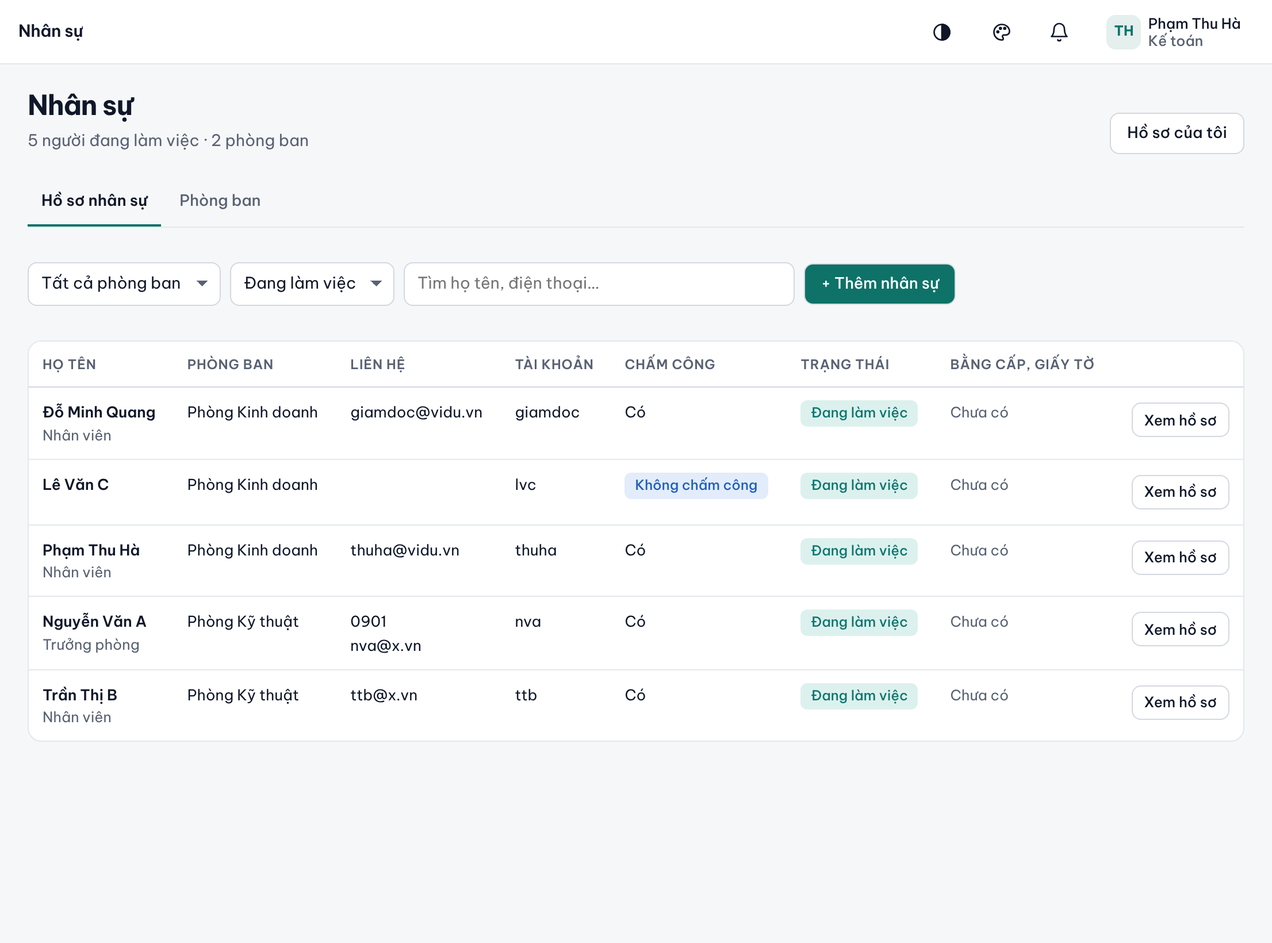
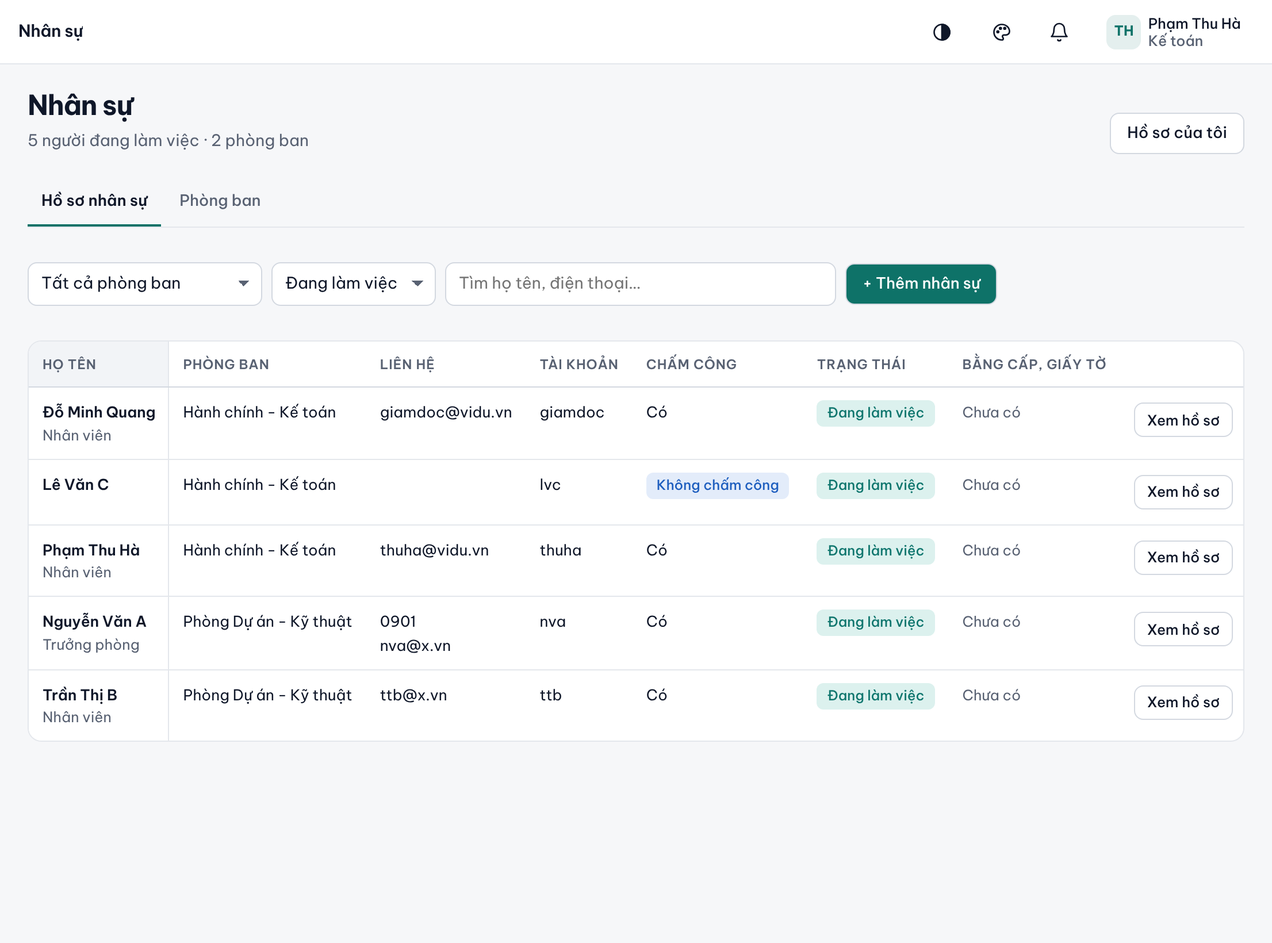
HDSD 1.10.24: sửa theo góp ý rà soát (cơ cấu, ai duyệt cho ai, ví dụ KPI, ảnh KPI 3 chiều, e-work.vn, Lương tạm tính, BGĐ rút gọn, QT)
Claude-Session: https://claude.ai/code/session_01NQcRJxdZddSXP2jCHavQqd

diff --git a/docs/hdsd-tt/content.js b/docs/hdsd-tt/content.js
@@ -29,6 +29,21 @@ exports.CHAPTERS = [
 <p class="note">Quyền Trưởng phòng đi theo phòng ban: phòng nào ghi tên người phụ trách (và <b>người cùng phụ trách</b>) là ai thì người đó quản lý phòng đó. Đổi trưởng phòng chỉ cần sửa phòng ban.</p>
 <p>Người đã nghỉ việc hoặc bị khóa tài khoản không còn hiện ở các danh sách chọn người (giao việc, phối hợp, mời họp) và không tính KPI; dữ liệu cũ vẫn giữ để tra cứu.</p>` },
 
+  { id: 'co-cau', title: 'Cơ cấu và ai duyệt cho ai (từ 01/12/2026)', roles: ALL, html: `
+<table><tr><th>Bộ phận</th><th>Người phụ trách</th><th>Thành viên</th></tr>
+<tr><td><b>Ban giám đốc</b></td><td>Đỗ Cao Trí (Giám đốc)</td><td>Đỗ Hòa: cố vấn, không chấm công, không duyệt (vai trò Nhân viên)</td></tr>
+<tr><td><b>Phòng Dự án - Kỹ thuật</b></td><td>Tám (trưởng phòng); Đoàn Thúy Quyên (người cùng phụ trách)</td><td>Khôi, Thịnh, Tính, Phạm Đoàn Trùng Dương</td></tr>
+<tr><td><b>Hành chính - Kế toán</b></td><td>Thanh (phụ trách)</td><td>Thảo. Cả hai không chấm công.</td></tr></table>
+<table><tr><th>Việc cần duyệt</th><th>Của ai</th><th>Ai duyệt</th></tr>
+<tr><td rowspan="3">Đề xuất (nghỉ, tăng ca, công tác, tạm ứng, xăng xe…)</td><td>Chuyên viên Phòng Dự án - Kỹ thuật</td><td>Tám hoặc Đoàn Thúy Quyên (ai duyệt trước cũng được)</td></tr>
+<tr><td>Thảo</td><td>Thanh</td></tr>
+<tr><td>Tám, Đoàn Thúy Quyên, Thanh</td><td>Giám đốc</td></tr>
+<tr><td>Giao việc, nghiệm thu sản phẩm</td><td>Người trong phòng</td><td>Người giao việc (trưởng phòng, người cùng phụ trách, Giám đốc)</td></tr>
+<tr><td>Chi lương</td><td>Cả công ty</td><td><b>Chỉ Giám đốc</b> duyệt chi; Kế toán lập bảng, không duyệt</td></tr>
+<tr><td>Xem bảng lương của phòng</td><td>Phòng Dự án - Kỹ thuật</td><td>Chỉ Đoàn Thúy Quyên (chỉ xem)</td></tr>
+<tr><td>Xóa dữ liệu phần Dự án</td><td>Mọi dự án</td><td>Trưởng phòng, người cùng phụ trách, Giám đốc. Nhân viên không xóa.</td></tr></table>
+<p><b>Thay đổi từ 01/12/2026</b>: dùng địa chỉ <b>https://e-work.vn</b> (bản mới); bảng lương, KPI tháng 12 tính hoàn toàn trên phần mềm mới; KPI tính 3 chiều (sản phẩm 60%, chuyên cần 20%, tương tác 20%); giao việc là giao sản phẩm.</p>` },
+
   { id: 'dang-nhap', title: 'Đăng nhập, đổi mật khẩu', roles: ALL, shot: 'dang-nhap', html: `
 <ol><li>Mở <b>https://e-work.vn</b> (địa chỉ e-work quen thuộc, nay là bản mới) trên máy tính hoặc điện thoại.</li>
 <li>Đăng nhập bằng <b>tên đăng nhập và mật khẩu e-work cũ</b> của bạn, không cần cấp lại.</li>
@@ -52,7 +67,8 @@ exports.CHAPTERS = [
 <p>Ngày nghỉ (Chủ nhật, thứ Bảy nghỉ, ngày lễ): không nhận nhiệm vụ, màn hình chỉ hiện lời chúc. Có làm thêm vào ngày nghỉ thì làm xong lập <b>phiếu xác nhận tăng ca</b> (chương <i>Đề xuất</i>).</p>
 <p>Quên nhận nhiệm vụ hoặc đi muộn có lý do: gửi đề xuất <i>Quên nhận nhiệm vụ</i> hoặc <i>Đi muộn</i>. Đề xuất được duyệt thì công tự tính lại.</p>
 <p>Từ ngày 1 đến ngày 10 mỗi tháng, trang hiện <b>Tổng kết tháng trước của bạn</b>: số ngày ở công ty, online, công tác, khác, số lần đi muộn, ngày nghỉ phép, ngày nghỉ không phép. Bấm <b>Đã xem</b> để ẩn.</p>
-<p class="note">Trong thời gian chạy song song, ngày nhận nhiệm vụ được chép sang e-work cũ mỗi 5 phút, nên không cần chấm hai nơi.</p>` },
+<p>Người được đặt <b>Không chấm công</b> (hiện là Đỗ Hòa, Thanh, Thảo) không phải nhận nhiệm vụ; lương tính theo hồ sơ.</p>
+<p class="note">Chỉ nhận nhiệm vụ trên phần mềm này (https://e-work.vn). Đến hết tháng 11/2026, dữ liệu nhận nhiệm vụ được phần mềm tự chép sang cơ sở dữ liệu e-work cũ để đối chiếu lương tháng 11; không cần chấm ở nơi khác.</p>` },
 
   { id: 'de-xuat', title: 'Gửi đề xuất', roles: ALL, shot: 'de-xuat', shots: ['tang-ca'], html: `
 <ol><li>Vào <b>Văn phòng → Đề xuất</b>, bấm <b>+ Tạo đề xuất</b>, chọn loại (xếp theo nhóm <i>Nghỉ</i>, <i>Thời gian</i>, <i>Chi phí</i>, <i>Khác</i>).</li>
@@ -103,20 +119,22 @@ exports.CHAPTERS = [
 <tr><td><b>Chuyên cần</b></td><td>20%</td><td>Nhận nhiệm vụ hằng ngày: 100 điểm, mỗi lần muộn quá 5 phút trừ 5, mỗi ngày nghỉ không phép trừ 20.</td></tr>
 <tr><td><b>Tương tác</b></td><td>20%</td><td>Số <b>ngày làm việc có cập nhật</b> trên phần mềm: nộp sản phẩm, trao đổi việc, xong phần phối hợp, cập nhật dữ liệu dự án, gửi đề xuất, lịch, thông báo, xác nhận lương, nghiệm thu, duyệt… Có cập nhật trong khoảng 3/5 số ngày đi làm là đủ 100 điểm. Mỗi ngày chỉ tính một lần: bấm nhiều trong ngày không cộng thêm. Đăng nhập, nhận nhiệm vụ không tính ở đây.</td></tr></table>
 <h3>Điểm sản phẩm</h3>
-<p>Mỗi sản phẩm (hoặc mốc) = <b>quy mô</b> (Nhỏ 1, Vừa 2, Lớn 4) × <b>tỷ lệ mốc</b> × mức độ (Bình thường 1, Quan trọng 1,5, Khẩn cấp 2) × <b>đúng hạn</b> (trễ đến 1 ngày làm việc còn 75%, đến 3 ngày còn 50%, trễ hơn 0) × <b>chất lượng</b> (Đạt tốt 100%, Đạt 85%, quá 3 ngày chưa nghiệm thu tự tính Đạt) × (1 − 20% mỗi lần bị trả lại sửa). Mốc đến hạn mà chưa nộp: 0 điểm. Người phối hợp được tính 30%. Điểm sản phẩm = 100 × tổng điểm đạt ÷ tổng hệ số.</p>
+<p>Mỗi sản phẩm (hoặc mốc) = <b>quy mô</b> (Nhỏ 1, Vừa 2, Lớn 4) × <b>tỷ lệ mốc</b> × mức độ (Bình thường 1, Quan trọng 1,5, Khẩn cấp 2) × <b>đúng hạn</b> (đúng hạn 100%; trễ 1 ngày làm việc còn 75%; trễ 2–3 ngày còn 50%; <b>trễ quá 3 ngày làm việc: 0</b>) × <b>chất lượng</b> (Đạt tốt 100%, Đạt 85%, quá 3 ngày chưa nghiệm thu tự tính Đạt) × (1 − 20% mỗi lần bị <b>trả về sửa</b> vì chưa đạt). Mốc đến hạn mà chưa nộp: 0 điểm. Người phối hợp được tính 30%. Điểm sản phẩm = 100 × tổng điểm đạt ÷ tổng hệ số.</p>
+<p class="note"><b>Ví dụ tính điểm tháng 12</b>: bạn có 2 mốc đến hạn. Mốc "Dự thảo" của báo cáo KTKT quy mô Lớn: hệ số 4 × 40% = 1,6; nộp đúng hạn, Đạt tốt: được 1,6. Một sản phẩm Nhỏ (hệ số 1): trễ 1 ngày, Đạt: được 1 × 75% × 85% = 0,64. Điểm sản phẩm = 100 × (1,6 + 0,64) ÷ (1,6 + 1) = <b>86,2</b>. Chuyên cần 95 (đi muộn 1 lần), tương tác 100. KPI = 86,2 × 60% + 95 × 20% + 100 × 20% = <b>90,7</b>, xếp loại A.</p>
 <p><b>Sản phẩm cần cơ quan phê duyệt</b> (ví dụ báo cáo KTKT): lúc giao chọn "Có", phần mềm <b>tự chia 3 mốc</b> và tự đặt hạn: <b>Dự thảo 40%</b> (hạn ở giữa thời gian), <b>Trình thẩm định 30%</b>, <b>Được phê duyệt 30%</b> (hạn của sản phẩm). Mỗi mốc tính vào tháng của mốc, nên việc làm 2 tháng thì tháng nào cũng có điểm. Cơ quan ngoài duyệt chậm thì xin gia hạn mốc trước hạn, không bị trừ.</p>
-<p><b>Ngày nộp</b> là ngày bấm Nộp sản phẩm, không ghi lùi được. Cả tháng không có sản phẩm hay mốc nào (kể cả sản phẩm dài đang làm) thì phần sản phẩm 0 điểm; người đang làm sản phẩm dài thì tháng đó tính theo chuyên cần và tương tác.</p>
+<p><b>Ngày nộp</b> là ngày bấm Nộp sản phẩm, không ghi lùi được. Cả tháng không có sản phẩm, mốc nào đến hạn hoặc được nộp, và cũng không có sản phẩm dài nào đang làm, thì phần sản phẩm 0 điểm. Người đang làm sản phẩm dài (hạn sau tháng này) thì không bị 0: tháng đó tính theo chuyên cần và tương tác.</p>
 <p>Xếp loại: A từ 90, B từ 75, C từ 60, dưới 60 là D. <b>Thưởng KPI</b>: cả công ty xếp hạng chung, <b>hạng 1 và hạng 2</b> được thưởng. Máy tự chốt lúc 0 giờ ngày 1 tháng sau. Điểm, xếp loại công khai; tiền thưởng của người khác không hiện. Điểm tháng đang chạy (<b>KPI tạm tính</b>) hiện ở trang Nhận nhiệm vụ và đầu trang Công việc.</p>
 <p class="note">Cách tính ba chiều áp dụng từ KPI tháng 12/2026 (tháng 11 tính như cũ: công việc 70%, chuyên cần 30%). Sau 3 tháng Công ty đánh giá lại.</p>` },
 
   { id: 'phieu-luong', title: 'Phiếu lương và xác nhận lương', roles: ALL, shot: 'phieu-luong', html: `
-<p>Trong tháng, mục <b>Lương</b> hiện <b>Phiếu lương tạm tính</b> của bạn (tính theo nhận nhiệm vụ, đề xuất, tăng ca đã duyệt tới hôm nay; chưa có thưởng KPI). Phiếu tạm tính chỉ để theo dõi, không xác nhận; thấy thiếu ngày công thì lập đề xuất ngay để kịp sửa.</p>
+<p>Trong tháng, mục <b>Lương</b> hiện <b>Phiếu lương tạm tính</b> của bạn (tính theo nhận nhiệm vụ, đề xuất, tăng ca đã duyệt tới hôm nay; chưa có thưởng KPI). Trang ghi rõ <b>Lương tạm tính</b>; phiếu tạm tính chỉ để theo dõi, không xác nhận; thấy thiếu ngày công thì lập đề xuất ngay để kịp sửa.</p>
 <ol><li>Bảng lương tháng tự chốt lúc 0 giờ ngày 1 tháng sau. Vào <b>Văn phòng → Lương</b>, chọn tháng để xem phiếu lương của mình: ngày công, lương thời gian, phụ cấp, tăng ca, công tác phí, thưởng KPI, bảo hiểm, thuế thu nhập cá nhân, tạm ứng, thực nhận.</li>
 <li>Từ ngày 1 đến hết ngày 3 tháng sau: bấm <b>Đồng ý, xác nhận lương</b>, hoặc ghi rõ ý kiến rồi bấm <b>Gửi kiến nghị</b>. Quá hạn coi như đồng ý.</li>
 <li>Kế toán trả lời kiến nghị ngay trên phiếu lương. Bấm <b>In, lưu PDF phiếu lương</b> để lưu.</li></ol>
-<p class="note">Bạn thấy phiếu lương của chính mình; người được Giám đốc giao (hiện là người cùng phụ trách phòng) xem được bảng lương của phòng để cân đối. Thông tin tài khoản ngân hàng, số CCCD chỉ Kế toán và Ban giám đốc thấy để chi lương.</p>` },
+<p>Người <b>Không chấm công</b> lĩnh nguyên lương chính, không phải tự xác nhận lương.</p>
+<p class="note">Bạn thấy phiếu lương của chính mình. Bảng lương của phòng: theo quyết định của Giám đốc, <b>chỉ Đoàn Thúy Quyên</b> (người cùng phụ trách Phòng Dự án - Kỹ thuật) được xem, chỉ xem; trưởng phòng không xem. Thông tin tài khoản ngân hàng, số CCCD chỉ Kế toán và Ban giám đốc thấy để chi lương.</p>` },
 
-  { id: 'lich-thong-bao', title: 'Lịch công tác, thông báo, thông tin dự án', roles: ALL, html: `
+  { id: 'lich-thong-bao', title: 'Lịch công tác, thông báo', roles: ALL, html: `
 <ul><li><b>Lịch công tác</b>: xem theo tuần, chọn <i>Chỉ lịch của tôi</i>; bấm <b>Thêm</b> để tải tệp lịch vào điện thoại, Outlook, Google Calendar; <b>Xuất → Lịch tuần (PDF/Excel)</b> để in.</li>
 <li><b>Thông báo nội bộ</b>: thông báo mới có chấm đỏ trên chuông; mở là được ghi nhận đã xem.</li>
 <li><b>Hướng dẫn sử dụng</b>: menu Tiện ích → Hướng dẫn sử dụng, có tài liệu này.</li></ul>` },
@@ -142,6 +160,7 @@ exports.CHAPTERS = [
 <ol><li>Chọn dự án ở ô chọn dự án phía trên (hoặc mở dự án từ <b>Quản lý dự án</b>), vào mục cần cập nhật.</li>
 <li>Bấm <b>+ Thêm</b> (ví dụ <i>+ Thêm hồ sơ</i>, <i>+ Thêm gói thầu</i>, <i>+ Thêm nhật ký</i>) hoặc <b>Sửa</b> trên dòng cần sửa; điền các ô có dấu *, đính kèm tệp (PDF, ảnh, Excel); bấm <b>Lưu</b>.</li>
 <li>Hồ sơ có quy trình duyệt (kế hoạch tiến độ, đợt nghiệm thu khối lượng, phụ lục hợp đồng, hồ sơ thanh toán, biên bản nghiệm thu) lưu ở trạng thái <b>Soạn thảo</b> (<i>Lưu nháp</i>); đủ hồ sơ thì bấm <b>Chuyển duyệt</b>. Bị trả lại thì xem ý kiến ở thẻ <i>Tôi đang soạn</i>, sửa rồi trình lại. Chỉ hồ sơ <b>đã duyệt</b> mới được tính vào số liệu.</li>
+<li><b>Tiến độ % của hợp đồng, gói thầu</b> (mục Quản lý tiến độ) là số liệu của dự án, vẫn cập nhật như trước. Khác với <b>công việc</b> của mỗi người: công việc không báo %, chỉ nộp sản phẩm.</li>
 <li>Kế hoạch tiến độ, bảng khối lượng, khối lượng nghiệm thu nhập được từ tệp Excel theo mẫu (nút <i>Nhập Excel</i>, có tệp mẫu để tải).</li></ol>
 <h3>Quyền xóa và lịch sử</h3>
 <table><tr><th>Vai trò</th><th>Thêm, sửa</th><th>Xóa</th></tr>
@@ -167,32 +186,32 @@ exports.CHAPTERS = [
   { id: 'tp-duyet', title: 'Duyệt đề xuất', roles: ['tp', 'gd'], shot: 'duyet', html: `
 <ol><li>Vào <b>Đề xuất</b>, thẻ <b>Chờ tôi duyệt</b> (số trong ngoặc là số đề xuất đang chờ).</li>
 <li>Mở đề xuất, xem chứng từ đính kèm, bấm <b>Duyệt</b> hoặc <b>Không duyệt</b> (ghi lý do).</li></ol>
-<p><b>Ai duyệt cho ai:</b> trưởng bộ phận (trưởng phòng và người cùng phụ trách) duyệt đề xuất của chuyên viên trong phòng, ai duyệt trước cũng được. Giám đốc duyệt đề xuất của trưởng bộ phận. Không ai tự duyệt đề xuất của mình; đề xuất của Giám đốc do Quản trị duyệt.</p>` },
+<p><b>Ai duyệt cho ai:</b> trưởng bộ phận (trưởng phòng và người cùng phụ trách) duyệt đề xuất của chuyên viên trong phòng, ai duyệt trước cũng được. Giám đốc duyệt đề xuất của trưởng bộ phận. Không ai tự duyệt đề xuất của mình (phần mềm chặn); đề xuất của Giám đốc được duyệt bằng tài khoản Quản trị (admin).</p>` },
 
-  { id: 'tp-kpi', title: 'Hôm nay ai ở đâu, Bảng công của phòng, KPI', roles: ['tp', 'gd'], shot: 'hom-nay', html: `
-<ol><li>Vào <b>Bảng công</b>, thẻ <b>Hôm nay ai ở đâu</b>: số người ở công ty, online, công tác, khác, có phiếu nghỉ, chưa nhận nhiệm vụ, đi muộn; từng người làm ở đâu, việc làm hôm nay, kết quả cuối ngày. Chọn ngày khác để xem lại.</li>
-<li>Thẻ <b>Tổng hợp tháng</b>: mỗi người số ngày công, ở công ty, online, công tác, khác, đi muộn, nghỉ phép, tăng ca, nghỉ không phép; <b>Xuất Excel</b> khi cần. Trưởng phòng thấy phòng mình, Ban giám đốc và Kế toán thấy toàn công ty.</li>
-<li><b>Lương</b>: người được giao xem bảng lương của phòng (hiện là người cùng phụ trách; Kế toán đổi ở <b>Lương → Thiết lập lương → Ai xem bảng lương của phòng</b>) chỉ xem, không sửa, không duyệt chi, để cân đối lương.</li>
+  { id: 'tp-kpi', title: 'Hôm nay ai ở đâu, Bảng công, KPI', roles: ['tp', 'gd'], shot: 'hom-nay', html: `
+<ol><li>Vào <b>Bảng công</b>, thẻ <b>Hôm nay ai ở đâu</b>: số người ở công ty, online, công tác, khác, có phiếu nghỉ, chưa nhận nhiệm vụ, đi muộn; từng người làm ở đâu. Chọn ngày khác để xem lại.</li>
+<li>Thẻ <b>Tổng hợp tháng</b>: mỗi người số ngày công, ở công ty, online, công tác, khác, đi muộn, nghỉ phép, tăng ca, nghỉ không phép; <b>Xuất Excel</b> khi cần. Trưởng phòng thấy phòng mình; Giám đốc và Kế toán thấy toàn công ty.</li>
+<li><b>Lương</b>: theo quyết định của Giám đốc, chỉ Đoàn Thúy Quyên (người cùng phụ trách) xem bảng lương của Phòng Dự án - Kỹ thuật, chỉ xem, không sửa, không duyệt chi. Trưởng phòng không xem.</li>
 <li><b>KPI</b> máy tự tính và tự chốt lúc 0 giờ ngày 1 tháng sau, không ai phải chấm hay bấm chốt. Cần sửa sai sót thì Ban giám đốc bấm <b>Mở chốt</b>, sửa, bấm <b>Chốt KPI tháng</b>.</li></ol>
 <p>Muốn KPI phản ánh đúng: giao việc ghi rõ sản phẩm và hạn bàn giao, nghiệm thu đúng lúc, duyệt gia hạn và xác nhận việc tự tạo kịp thời.</p>` },
 
   // ---------------- kế toán
-  { id: 'kt-nhan-su', title: 'Hồ sơ nhân sự, hồ sơ lương', roles: ['kt', 'gd'], shot: 'nhan-su', html: `
+  { id: 'kt-nhan-su', title: 'Hồ sơ nhân sự, hồ sơ lương', roles: ['kt'], shot: 'nhan-su', html: `
 <ol><li><b>Văn phòng → Nhân sự</b>, bấm tên một người để mở trang hồ sơ: thẻ <b>Thông tin chung</b> (cá nhân, phòng ban, chức vụ, ngày vào làm, ngân hàng, CCCD, người phụ thuộc), <b>Bằng cấp, chứng chỉ</b>, <b>Hợp đồng lao động</b>, <b>Quá trình công tác</b>, <b>Khen thưởng</b>, <b>Kỷ luật</b>, <b>Giấy tờ</b>, <b>Tất cả tệp</b>. Mỗi mục đính kèm được ảnh chụp hoặc bản PDF, bấm <b>Xem</b> để mở ngay. Mỗi người xem hồ sơ của mình ở <b>Hồ sơ của tôi</b>.</li>
 <li>Ô <b>Chấm công</b>: chọn <i>Không chấm công</i> cho người không cần nhận nhiệm vụ. Người đó hưởng nguyên lương chính, không cần tự xác nhận lương.</li>
 <li>Người sắp nghỉ việc: chỉ cần ghi <b>Ngày nghỉ việc</b> (giữ trạng thái Đang làm việc). Đến hết ngày đó, người này vẫn chấm công và hưởng lương bình thường. Từ hôm sau, phần mềm <b>tự khóa tài khoản</b> và bỏ họ khỏi các danh sách chọn người và KPI. Bảng công, bảng lương tháng cuối vẫn tính đủ; hồ sơ vẫn giữ để tra cứu.</li>
 <li><b>Lương → Hồ sơ lương</b>: lương cơ bản, lương đóng bảo hiểm, các khoản phụ cấp, số người phụ thuộc, cách tính thuế, đóng hay không đóng bảo hiểm, mức công tác phí riêng (để trống thì dùng mức chung, 0 là không hưởng; đã lấy sẵn từ e-work).</li></ol>
 <p class="note">Thông tin CCCD, ngân hàng là dữ liệu cá nhân (Nghị định 13/2023): chỉ dùng để chi lương, không chụp màn hình gửi ra ngoài.</p>` },
 
-  { id: 'kt-bang-cong', title: 'Bảng công, ngày nghỉ lễ', roles: ['kt', 'gd'], html: `
+  { id: 'kt-bang-cong', title: 'Bảng công, ngày nghỉ lễ', roles: ['kt'], html: `
 <ol><li><b>Bảng công</b>, thẻ <b>Tổng hợp tháng</b>: chọn tháng, xem từng người (ngày công, ở công ty, online, công tác, khác, đi muộn, nghỉ phép, tăng ca, nghỉ không phép); <b>Xuất Excel</b>. Bấm tên để xem chi tiết từng ngày (thẻ <b>Chi tiết nhận nhiệm vụ</b>).</li>
 <li><b>+ Bổ sung nhận nhiệm vụ</b> hoặc <b>Điều chỉnh</b> khi có sai sót (ô giờ để trống thì giữ giờ cũ; phần mềm ghi lại người sửa, lý do).</li>
 <li>Thẻ <b>Thiết lập</b>: chọn năm, bấm <b>Điền ngày lễ theo luật</b> cho năm mới; thêm ngày nghỉ bù, ngày làm bù theo thông báo của Chính phủ.</li></ol>` },
 
-  { id: 'kt-luong', title: 'Bảng lương tự tính, tự chốt', roles: ['kt', 'gd'], shot: 'bang-luong', html: `
+  { id: 'kt-luong', title: 'Bảng lương tự tính, tự chốt', roles: ['kt'], shot: 'bang-luong', html: `
 <ol><li>Vào <b>Lương</b>, chọn tháng. Bảng lương tự tính từ bảng công, đề xuất đã được trưởng bộ phận duyệt, KPI đã chốt và hồ sơ lương. Kế toán không phải nhập lại.</li>
 <li>Từng người: <b>Thưởng, khấu trừ khác</b> để thêm khoản ngoài; mục <b>Đề xuất tạm ứng, xăng xe trong tháng</b> chọn <i>Đưa vào lương</i> hoặc không.</li>
-<li><b>Bảng lương tự chốt lúc 0 giờ ngày 1 tháng sau</b> (ngay sau khi KPI tự chốt), không ai phải bấm. Có khoản phát sinh thì nhập trước ngày đó; nhập muộn thì <b>Mở chốt</b>, nhập, rồi <b>Chốt bảng lương</b> (đã mở chốt thì phần mềm không tự chốt lại). Nhân viên thấy phiếu lương và xác nhận từ ngày 1 đến ngày 3 tháng sau. Bật/tắt và chọn ngày tự chốt ở <b>Lương → Thiết lập</b>.</li>
+<li><b>Bảng lương tự chốt lúc 0 giờ ngày 1 tháng sau</b> (ngay sau khi KPI tự chốt), không ai phải bấm. Có khoản phát sinh thì nhập trước ngày đó; nhập muộn thì <b>Mở chốt</b>, nhập, rồi <b>Chốt bảng lương</b> (đã mở chốt thì phần mềm không tự chốt lại). Trong tháng, trang ghi <b>Lương tạm tính</b> và chỉ có nút <b>Chốt sớm…</b> (không dùng, trừ khi Giám đốc yêu cầu). Nhân viên thấy phiếu lương và xác nhận từ ngày 1 đến ngày 3 tháng sau. Quy định của Công ty: tự chốt <b>0 giờ ngày 1</b>, không đổi.</li>
 <li>Kiến nghị: bấm <b>Trả lời kiến nghị</b>. Cần sửa số liệu thì <b>Mở chốt</b>, sửa, chốt lại.</li></ol>
 <p><b>Quy tắc tính (theo quy định hiện hành):</b></p>
 <ul><li>Bảo hiểm người lao động đóng: BHXH 8%, BHYT 1,5%, BHTN 1%. Trần BHXH, BHYT = 20 lần lương cơ sở (2.530.000 đ từ 01/7/2026); trần BHTN = 20 lần lương tối thiểu vùng (vùng I 5.310.000 đ từ 01/01/2026, Nghị định 293/2025).</li>
@@ -205,10 +224,16 @@ exports.CHAPTERS = [
 <ol><li>Sau hạn xác nhận và đã trả lời hết kiến nghị, <b>chỉ Giám đốc</b> bấm <b>Duyệt chi lương</b> (Kế toán lập, Giám đốc duyệt: tách người lập với người duyệt). Còn kiến nghị chờ xử lý thì phần mềm chưa cho duyệt.</li>
 <li>Bấm <b>Xuất → Bảng lương kế toán (Excel/PDF)</b>: đủ các cột theo quy định, có chữ ký Người lập biểu, Kế toán trưởng, Giám đốc và cột ký nhận. Dùng để lưu chứng từ.</li>
 <li><b>Xuất → Danh sách chuyển khoản ngân hàng</b>: tệp Excel đúng mẫu <i>Danh sách giao dịch</i> của MB Bank (STT, số tài khoản, tên người thụ hưởng, ngân hàng, số tiền, nội dung). Tải lên Internet Banking doanh nghiệp để chi lương.</li>
-<li>Đã duyệt chi thì không mở chốt được nữa. Cần sửa thì bấm <b>Hủy duyệt chi</b> trước.</li></ol>
+<li>Đã duyệt chi thì không mở chốt được nữa. Cần sửa thì Giám đốc bấm <b>Hủy duyệt chi</b> trước (chỉ người có quyền duyệt chi, hiện là Giám đốc).</li></ol>
 <p>Nội dung chuyển khoản, tài khoản trích nợ đặt trong <b>Lương → Thiết lập</b> (mặc định "TRI THUC THANH TOAN LUONG T{tháng}.{năm}").</p>` },
 
   // ---------------- ban giám đốc
+  { id: 'gd-nhan-su-luong', title: 'Nhân sự, bảng công, bảng lương: xem và duyệt chi', roles: ['gd'], html: `
+<p>Kế toán nhập hồ sơ nhân sự, rà bảng công và bảng lương (xem HDSD Kế toán). Giám đốc chỉ cần:</p>
+<ul><li><b>Nhân sự</b>, <b>Bảng công → Tổng hợp tháng</b>: xem toàn công ty, xuất Excel khi cần báo cáo.</li>
+<li><b>Lương</b>: trong tháng trang ghi <b>Lương tạm tính</b>; bảng tự chốt 0 giờ ngày 1. Sau hạn xác nhận (ngày 3) và đã trả lời hết kiến nghị, bấm <b>Duyệt chi lương</b>; cần sửa sau khi đã duyệt thì <b>Hủy duyệt chi</b> trước.</li>
+<li>Duyệt đề xuất của Tám, Đoàn Thúy Quyên, Thanh ở <b>Đề xuất → Chờ tôi duyệt</b>.</li></ul>` },
+
   { id: 'gd-dieu-hanh', title: 'Điều hành toàn công ty', roles: ['gd'], html: `
 <ul><li><b>Bảng công → Hôm nay ai ở đâu</b>: xem nhanh trên điện thoại ai ở công ty, online, công tác, ai chưa nhận nhiệm vụ.</li>
 <li>Trang Nhận nhiệm vụ hiện thêm mục <b>Việc của phòng, người bạn giao</b>: số việc quá hạn, việc tự tạo chờ xác nhận, sản phẩm chờ nghiệm thu. Bấm để mở ngay danh sách.</li>
@@ -220,13 +245,15 @@ exports.CHAPTERS = [
 
   // ---------------- quản trị
   { id: 'qt-tai-khoan', title: 'Tài khoản, vai trò khi nhân sự thay đổi', roles: ['qt'], shot: 'qt-nguoi-dung', html: `
-<ol><li><b>Quản trị hệ thống → Người dùng</b>: thêm tài khoản, chọn vai trò (Nhân viên, Trưởng phòng, Kế toán, Ban giám đốc), đặt mật khẩu ban đầu; người dùng phải đổi khi đăng nhập lần đầu.</li>
+<ol><li><b>Quản trị hệ thống → Người dùng</b>: thêm tài khoản, chọn vai trò (Nhân viên, Trưởng phòng, Kế toán, Ban giám đốc), đặt mật khẩu ban đầu; <b>tài khoản mới</b> phải đổi mật khẩu khi đăng nhập lần đầu (tài khoản chuyển từ e-work giữ mật khẩu cũ).</li>
 <li><b>Nhân sự thay đổi</b>: sửa tài khoản, đổi vai trò. Ví dụ nhân viên lên Trưởng phòng: đổi vai trò sang Trưởng phòng và ghi người phụ trách ở <b>Nhân sự → Phòng ban</b> (Sửa phòng ban). Phòng có hai người cùng quản lý thì chọn thêm <b>Người cùng phụ trách</b>.</li>
 <li>Người nghỉ việc: Kế toán ghi Ngày nghỉ việc trong hồ sơ, phần mềm tự khóa tài khoản từ hôm sau (không xóa, giữ lịch sử). Cần khóa ngay thì bấm Khóa ở đây.</li>
+<li>Vai trò hiện dùng: <b>Nhân viên</b> (g-nv, gồm cả Đỗ Hòa: cố vấn, đặt Không chấm công), <b>Trưởng phòng</b> (g-tp), <b>Kế toán</b> (g-ketoan), <b>Ban giám đốc</b> (g-bgd, chỉ Giám đốc), <b>Quản trị</b> (chỉ tài khoản admin, có xác thực 2 lớp). Phòng ban và người phụ trách: chương <i>Cơ cấu và ai duyệt cho ai</i>.</li>
 <li><b>Nhóm, phân quyền</b>: quyền từng phân hệ (không, xem, sửa), ô <i>Duyệt hồ sơ</i> cho Đề xuất và Lương (duyệt chi), ô <b>Không được xóa</b> (được thêm, sửa nhưng không xóa; nhóm Nhân viên đang đặt cho mọi mục phần Dự án). Chỉ sửa khi Công ty đổi quy chế.</li></ol>
 <p class="note">Quyền <i>xem</i> một phân hệ Văn phòng (Nhân sự, Bảng công, Đề xuất, KPI, Lương) nghĩa là xem dữ liệu của mọi người. Không cấp cho vai trò Nhân viên.</p>` },
 
   { id: 'qt-thiet-lap', title: 'Thiết lập hệ thống', roles: ['qt'], html: `
+<p><b>Công ty đang dùng</b>: Nhận nhiệm vụ (không chọn việc, không ghi kết quả cuối ngày), quản lý theo kết quả sản phẩm từ 12/2026, không theo dõi tiến độ %, KPI tự động 60/20/20, tự chốt KPI và lương 0 giờ ngày 1. Không đổi khi chưa có quyết định của Giám đốc.</p>
 <ul><li><b>Bảng công → Thiết lập</b>: giờ làm, ca sáng chiều, thứ Bảy, số ngày phép năm, có cộng phép theo thâm niên hay không; ô <i>Nhận nhiệm vụ</i> (bật: mỗi ngày bấm một lần, tự chọn nơi làm, không định vị), tên hiển thị của nút, ô có phần chọn việc làm hôm nay và kết quả cuối ngày hay không (Công ty đang tắt vì quản lý theo kết quả).</li>
 <li><b>KPI → Thiết lập</b>: mục <b>Quản lý theo kết quả sản phẩm</b> (áp dụng từ tháng, hệ số Đạt tốt, Đạt, có theo dõi tiến độ % hay không), công khai điểm KPI, cách tính (tự động hoàn toàn hoặc có chấm tay), tỷ trọng, xếp hạng chung toàn công ty, số người đứng đầu được thưởng, hệ số mức độ, trễ hạn, chất lượng, trừ gia hạn, mở lại, hệ số phối hợp, xếp loại, thưởng xếp hạng, số ngày nhắc trước hạn, tự chốt KPI (bật/tắt, ngày tự chốt).</li>
 <li><b>Lương → Thiết lập</b>: lương cơ sở, lương tối thiểu vùng, tỷ lệ bảo hiểm, giảm trừ, biểu thuế, tỷ lệ tăng ca, số giờ tăng ca tối đa một ngày (bình thường, gấp), tính tăng ca theo tháng duyệt phiếu hay theo ngày tăng ca, đơn giá tăng ca tính trên lương chính + phụ cấp hay chỉ lương chính, thưởng của tháng còn làm trên e-work (lấy theo bảng lương e-work hay theo KPI trên phần mềm), công tác phí, tạm ứng và xăng xe mặc định, tài khoản trích nợ, nội dung chuyển khoản, hạn xác nhận lương.</li>
@@ -236,6 +263,6 @@ exports.CHAPTERS = [
 
   { id: 'qt-ework', title: 'Chuyển dữ liệu và chạy song song e-work cũ', roles: ['qt'], html: `
 <ul><li>Dữ liệu e-work (nhân sự, chấm công, đề xuất, lịch họp, thông báo, hồ sơ lương, dự án, công việc) đã chuyển sang; bảng cũ lưu tại <b>Dữ liệu e-work cũ</b> để tra cứu.</li>
-<li>Trong thời gian chạy song song, ngày nhận nhiệm vụ được chép sang e-work cũ mỗi 5 phút: thêm dòng mới; dòng do phần mềm mới chép mà sau đó sửa (điều chỉnh, giải trình được duyệt) thì cập nhật đúng dòng đó; không xóa. Phần cập nhật cần quyền UPDATE trên bảng ChamCongs của e-work.</li>
-<li>Đối chiếu lương: chạy lệnh <code>--doi-chieu-luong 2026-10</code> trên máy chủ để so bảng lương e-work với bản mới, ra tệp chênh lệch từng người.</li></ul>` },
+<li>Đến hết tháng 11/2026, ngày nhận nhiệm vụ được chép sang cơ sở dữ liệu e-work cũ mỗi 5 phút: thêm dòng mới; dòng do phần mềm mới chép mà sau đó sửa (điều chỉnh, giải trình được duyệt) thì cập nhật đúng dòng đó; không xóa. Phần cập nhật cần quyền UPDATE trên bảng ChamCongs của e-work.</li>
+<li>Đối chiếu lương tháng 11 với e-work cũ: bên kỹ thuật chạy trên máy chủ ngày 01/12 (phụ lục kỹ thuật: lệnh <code>--doi-chieu-luong 2026-11</code>).</li></ul>` },
 ];

diff --git a/docs/hdsd-tt/build.js b/docs/hdsd-tt/build.js
@@ -6,7 +6,7 @@ const { ROLES, CHAPTERS } = require('./content');
 const OUT = process.argv[2] || path.join(__dirname, 'out'); fs.mkdirSync(OUT, { recursive: true });
 const SHOTS = path.join(__dirname, 'shots'), VER = '1.10.24', DATE = '26/11/2026';
 const CAP = { 'dang-nhap': 'Trang đăng nhập', 'du-an': 'Quản lý dự án: thông tin dự án, các thẻ Công việc, Hồ sơ pháp lý, Tình trạng thực hiện', 'du-an-sua': 'Sửa thông tin dự án: cuối biểu mẫu có mục Lịch sử thay đổi (ai, lúc nào, sửa gì)', 'diem-danh': 'Trang Nhận nhiệm vụ sau khi nhận: nơi làm, nhắc việc, KPI tạm tính, phép còn lại',
-  'de-xuat': 'Trang Đề xuất', 'cong-viec': 'Công việc: ba thẻ Việc của tôi, Được giao, Tôi giao; cột Sản phẩm bàn giao; x/y sản phẩm đã nghiệm thu', 'kpi': 'KPI tháng: Cách tính, nút Xuất',
+  'de-xuat': 'Trang Đề xuất', 'cong-viec': 'Công việc: ba thẻ Việc của tôi, Được giao, Tôi giao; cột Sản phẩm bàn giao; x/y sản phẩm đã nghiệm thu', 'kpi': 'KPI tháng theo 3 chiều: Sản phẩm, Tương tác, Chuyên cần; Cách tính, nút Xuất',
   'phieu-luong': 'Phiếu lương, xác nhận hoặc gửi kiến nghị', 'giao-viec': 'Thẻ Tôi giao: sản phẩm chờ nghiệm thu lên đầu, xin gia hạn', 'chi-tiet-viec': 'Chi tiết việc: sản phẩm bàn giao, tiêu chí đạt, sản phẩm đã nộp, người phối hợp, nhật ký', 'nop-san-pham': 'Nộp sản phẩm: đính kèm tệp hoặc dán đường dẫn, ghi chú nơi kiểm tra', 'nghiem-thu': 'Nghiệm thu: Đạt tốt, Đạt, hoặc Chưa đạt (trả lại sửa, ghi rõ cần sửa gì)', 'tang-ca': 'Phiếu xác nhận tăng ca: chọn công việc làm thêm giờ', 'nhan-nhiem-vu': 'Nhận nhiệm vụ: chọn nơi làm, bấm một lần mỗi sáng', 'hom-nay': 'Bảng công: Hôm nay ai ở đâu', 'duyet': 'Đề xuất chờ tôi duyệt',
   'nhan-su': 'Hồ sơ nhân sự', 'bang-luong': 'Bảng lương tháng: chốt, duyệt chi, nút Xuất', 'duyet-chi': 'Bảng lương đã duyệt chi: xuất danh sách chuyển khoản ngân hàng',
   'qt-nguoi-dung': 'Quản trị hệ thống' };
@@ -39,7 +39,7 @@ function html(k) {
   </style></head><body>
   <div class="cover"><div class="top">CÔNG TY CỔ PHẦN TIN HỌC TRI THỨC</div>
     <div><h1>Hướng dẫn sử dụng<br>e-work Tri Thức</h1><span class="role">Dành cho ${role.name}</span><p class="intro">${role.intro}</p></div>
-    <div class="foot">Phiên bản phần mềm ${VER} · Ban hành ngày ${DATE} · https://trithuc.qlda.trithucsoft.vn<br>Ảnh minh họa dùng dữ liệu mẫu.</div></div>
+    <div class="foot">Phiên bản phần mềm ${VER} · Ban hành ngày ${DATE} · https://e-work.vn<br>Ảnh minh họa dùng dữ liệu mẫu.</div></div>
   <div class="toc"><h2>Nội dung</h2><ol>${toc}</ol></div>${body}</body></html>`;
 }
 

diff --git a/docs/hdsd-tt/shots.js b/docs/hdsd-tt/shots.js
@@ -39,7 +39,7 @@ const VIEW = { width: 1366, height: 820 };
   // thông tin đơn vị: Công ty Tri Thức, giao diện Công nghệ
   const br = await J(r.get(BASE + '/api/branding'));
   await r.put(BASE + '/api/branding', { headers: H, data: { ...br, appName: 'e-work Tri Thức', orgShort: 'Công ty Tri Thức', orgName: 'Công ty Cổ phần Tin học Tri Thức', unitName: 'Công ty Cổ phần Tin học Tri Thức',
-    bannerTitle: 'e-work Tri Thức', bannerText: 'Điểm danh, đề xuất, công việc, KPI, lương trên một hệ thống.', style: 'tech', color: 'teal', field: 'cntt', printNation: '0',
+    bannerTitle: 'e-work Tri Thức', bannerText: 'Nhận nhiệm vụ, đề xuất, công việc, KPI, lương trên một hệ thống.', style: 'tech', color: 'teal', field: 'cntt', printNation: '0',
     footer: '© {năm} Công ty Cổ phần Tin học Tri Thức', hideMods: '', loginHint: 'Dùng tài khoản e-work của bạn.' } });
 
   // dữ liệu mẫu: nạp e-work kiểm thử, thêm Kế toán, Giám đốc
@@ -49,6 +49,7 @@ const VIEW = { width: 1366, height: 820 };
   fx.users.push({ ...base, Id: 'u5', UserName: 'thuha', Email: 'thuha@vidu.vn', FullName: 'Phạm Thu Hà', RoleName: 'KETOAN', PhongBan: 'pb-kd' });
   fx.users.push({ ...base, Id: 'u6', UserName: 'giamdoc', Email: 'giamdoc@vidu.vn', FullName: 'Đỗ Minh Quang', RoleName: 'GIAMDOC', PhongBan: 'pb-kd' });
   fx.luutru.QuanLyCongViecs = [];
+  fx.phongbans.forEach(p => { p.Name = p.Id === 'pb-kt' ? 'Phòng Dự án - Kỹ thuật' : 'Hành chính - Kế toán'; });
   const FX = path.join(tmp, 'ew.json'); fs.writeFileSync(FX, JSON.stringify(fx));
   console.log(cli(['--nhap-ework', FX], { QLDA_MAT_KHAU_CHUNG: 'TriThuc2026' }).split('\n').filter(l => /dự án|nhân sự/.test(l)).join('\n'));
   const emps = await J(r.get(BASE + '/api/vp/employees', { headers: H })); const E = n => emps.find(e => e.name === n);
@@ -126,7 +127,9 @@ const VIEW = { width: 1366, height: 820 };
   await shot(kt, 'tong-hop', 'diem-danh', `S.tab.dd='bang'; render()`);
   await shot(nv, 'de-xuat', 'de-xuat');
   await shot(nv, 'cong-viec', 'cong-viec');
-  await shot(nv, 'kpi', 'kpi', `S.f.kpim='${PM}'; render()`);
+  { const ks = await J(r.get(BASE + '/api/vp/kpi-settings', { headers: H })); await r.put(BASE + '/api/vp/kpi-settings', { headers: H, data: { ...ks, auto: true, resultFrom: thisMonth() } }); }
+  for (const e of emps) await r.put(BASE + `/api/vp/kpi/${thisMonth()}/${e.id}`, { headers: H, data: { clearWork: true } });
+  await shot(nv, 'kpi', 'kpi', `S.f.kpim='${thisMonth()}'; render()`);
   await shot(nv, 'phieu-luong', 'luong', `S.f.plm='${PM}'; render()`);
   await shot(tp, 'giao-viec', 'cong-viec', `S.f.cvs='giao'; render()`);
   await shot(tp, 'chi-tiet-viec', 'cong-viec', `ACT['cv-view']('${v1}')`, { full: true });
